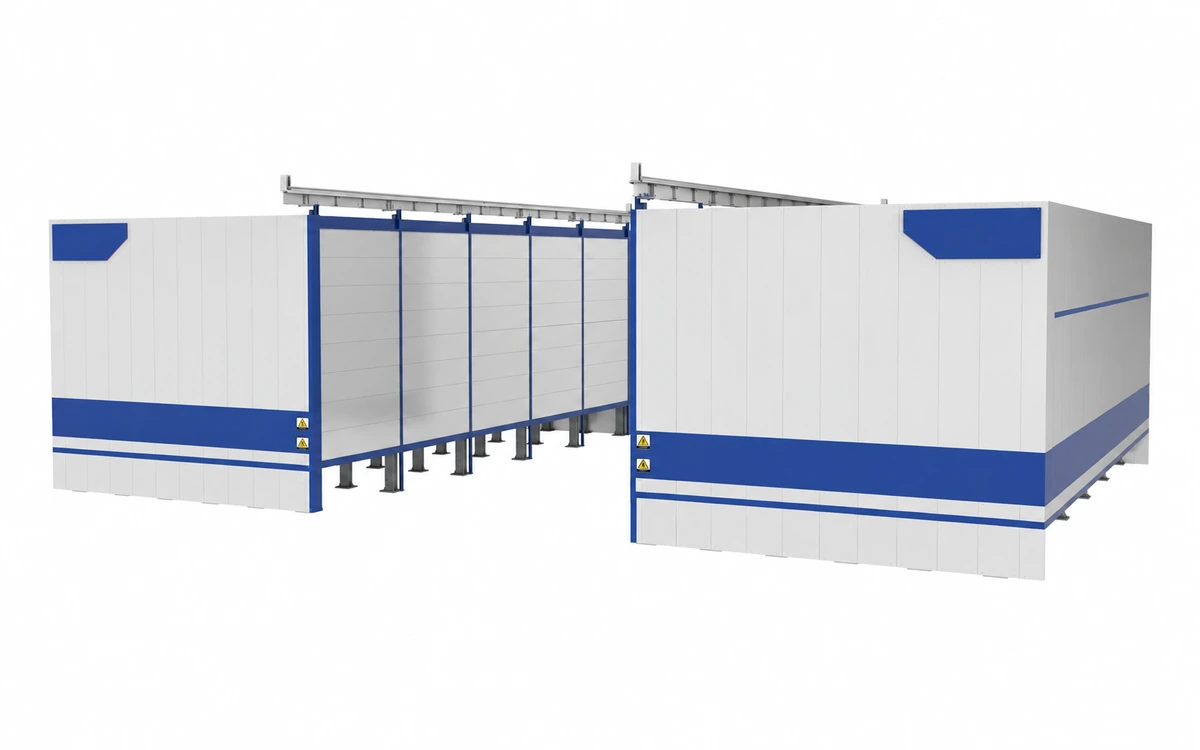
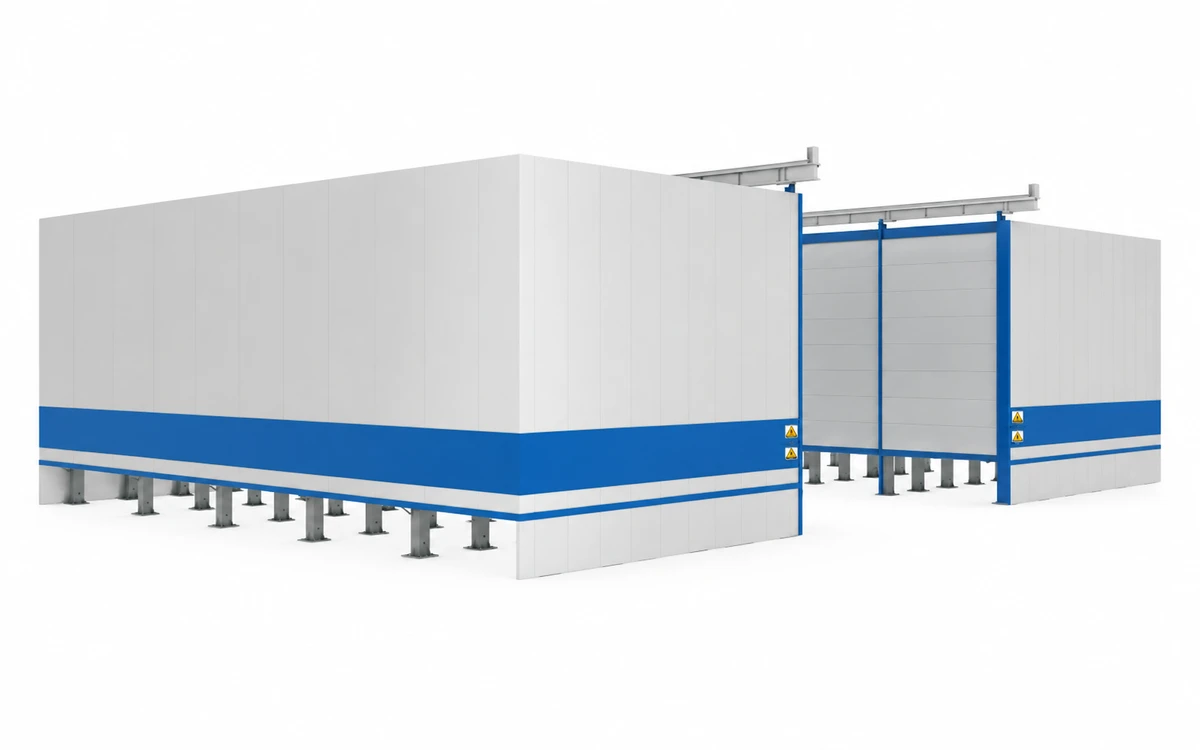
Refresh twelve precast equipment items and remove digital factory content

Changed region(s): [[0.0308, 0.184, 0.9867, 0.7973], [0.1233, 0.46, 0.1542, 0.4907]]

diff --git a/site/assets/building-precast.css b/site/assets/building-precast.css
@@ -11,7 +11,7 @@
 .pc-products{display:grid;grid-template-columns:repeat(4,1fr);gap:16px;margin-bottom:28px}.pc-products>div{display:flex;align-items:center;gap:18px;padding:18px;background:var(--pc-soft)}.pc-products svg{width:68px;height:62px;color:var(--pc-blue);flex-shrink:0}.pc-products span{font-size:14px;font-weight:600;line-height:1.4}
 .pc-lines-grid{display:grid;grid-template-columns:repeat(3,minmax(0,1fr));gap:24px}.pc-line-card{border:1px solid var(--pc-line);border-radius:6px;overflow:hidden;background:#fff;display:flex;flex-direction:column}.pc-line-image{position:relative;padding:16px;height:228px;background:#f7f9fa}.pc-line-image>img{width:100%;height:100%;object-fit:cover;border-radius:2px}.pc-line-image.pc-image-fit>img{object-fit:contain;background:#fff}.pc-line-image>span{position:absolute;left:28px;bottom:26px;display:flex;align-items:center;justify-content:center;width:32px;height:32px;background:var(--pc-navy);color:#fff;font-size:12px;border-radius:3px}.pc-line-body{padding:26px;display:flex;flex:1;flex-direction:column;align-items:stretch}.pc-line-body .pc-eyebrow{font-size:9px;letter-spacing:.1em;gap:8px}.pc-line-body .pc-eyebrow::before{width:14px}.pc-line-body h3{margin-top:14px;font-size:25px;line-height:1.15;letter-spacing:-.025em;color:var(--pc-navy)}.pc-line-body>p{margin-top:16px;color:var(--pc-muted);font-size:15px;line-height:1.6}.pc-line-body .pc-line-products{font-size:13px;color:var(--pc-ink);font-weight:600;min-height:42px}.pc-line-body dl{border-top:1px solid var(--pc-line);padding-top:20px;margin:22px 0}.pc-line-body dl>div+div{margin-top:18px}.pc-line-body dt{font-size:10px;letter-spacing:.08em;text-transform:uppercase;font-weight:700;color:var(--pc-blue)}.pc-line-body dd{margin-top:6px;color:var(--pc-muted);font-size:13px;line-height:1.6}.pc-line-body>.pc-button{margin-top:auto;font-size:12px;padding:14px 12px;gap:12px}
 .pc-process{display:grid;grid-template-columns:repeat(3,minmax(0,1fr));gap:1px;background:var(--pc-line);border:1px solid var(--pc-line)}.pc-process li{position:relative;background:var(--pc-soft);padding:30px 32px 34px}.pc-process h3{font-size:20px;line-height:1.25;letter-spacing:-.02em;color:var(--pc-navy)}.pc-process p{margin-top:14px;max-width:290px;color:var(--pc-muted);font-size:15px}.pc-step-arrow{position:absolute;right:26px;top:26px;color:#8ea4b4;font-size:24px}.pc-process-notes{display:grid;grid-template-columns:1fr 1fr;gap:48px;margin-top:28px;color:var(--pc-muted);font-size:14px}.pc-process-notes p{padding-left:18px;border-left:2px solid var(--pc-cyan)}.pc-process-notes strong{color:var(--pc-ink)}
-.pc-equipment-grid{display:grid;grid-template-columns:repeat(4,minmax(0,1fr));gap:24px}.pc-equipment-card{border-bottom:1px solid var(--pc-line);padding-bottom:24px}.pc-equipment-image{padding:16px 10px;height:184px;background:#f8fafb;margin-bottom:22px}.pc-equipment-image img{width:100%;height:100%;object-fit:contain;mix-blend-mode:multiply}.pc-equipment-image.pc-image-cover{padding:0}.pc-equipment-image.pc-image-cover img{object-fit:cover;mix-blend-mode:normal}.pc-equipment-card h3{font-size:20px;line-height:1.2;letter-spacing:-.025em;min-height:48px;color:var(--pc-navy)}.pc-equipment-card p{margin-top:12px;color:var(--pc-muted);font-size:14px;line-height:1.65}.pc-equipment-card .pc-parameters{margin-top:18px;font-size:12px;line-height:1.6;color:#5c7486;padding-top:14px;border-top:1px solid #e9eef1}.pc-single{margin-top:36px;display:flex;justify-content:space-between;align-items:center;gap:28px;padding:24px 28px;background:var(--pc-soft)}.pc-single strong{display:block;font-size:18px;color:var(--pc-navy)}.pc-single p>span{display:block;color:var(--pc-muted);font-size:14px;margin-top:4px}
+.pc-equipment-grid{display:grid;grid-template-columns:repeat(3,minmax(0,1fr));gap:28px}.pc-equipment-card{border-bottom:1px solid var(--pc-line);padding-bottom:24px}.pc-equipment-image{padding:16px 10px;height:184px;background:#f8fafb;margin-bottom:22px}.pc-equipment-image img{width:100%;height:100%;object-fit:contain;mix-blend-mode:multiply}.pc-equipment-image.pc-image-cover{padding:0}.pc-equipment-image.pc-image-cover img{object-fit:cover;mix-blend-mode:normal}.pc-equipment-card h3{font-size:20px;line-height:1.2;letter-spacing:-.025em;min-height:48px;color:var(--pc-navy)}.pc-equipment-card p{margin-top:12px;color:var(--pc-muted);font-size:14px;line-height:1.65}.pc-equipment-card .pc-parameters{margin-top:18px;font-size:12px;line-height:1.6;color:#5c7486;padding-top:14px;border-top:1px solid #e9eef1}.pc-single{margin-top:36px;display:flex;justify-content:space-between;align-items:center;gap:28px;padding:24px 28px;background:var(--pc-soft)}.pc-single strong{display:block;font-size:18px;color:var(--pc-navy)}.pc-single p>span{display:block;color:var(--pc-muted);font-size:14px;margin-top:4px}
 .pc-digital{background:var(--pc-navy);color:#fff}.pc-digital-grid{display:grid;grid-template-columns:1fr 1.05fr;gap:80px;align-items:center}.pc-digital .pc-eyebrow{color:var(--pc-cyan)}.pc-digital h2{color:#fff}.pc-digital-grid>div>p{margin-top:26px;color:#b9cad7;max-width:480px}.pc-digital .pc-button{margin-top:32px}.pc-integration{border:1px solid #ffffff26;border-radius:6px;padding:28px;background:#061b2c88}.pc-integration-top{display:flex;align-items:center;gap:10px;font-size:10px;font-weight:700;letter-spacing:.08em;color:#76d3db;margin-bottom:24px}.pc-integration-top small{margin-left:auto;color:#9fb5c7;font-size:9px;letter-spacing:0;font-weight:400}.pc-system{padding:20px;border:1px solid #ffffff1c;border-radius:4px;background:#0c304b}.pc-system>span{font-size:9px;letter-spacing:.12em;color:#7bc8d9}.pc-system h3{margin-top:6px;font-size:24px;line-height:1.2;font-weight:600}.pc-system p{margin-top:8px;color:#b9cad7;font-size:13px;line-height:1.5}.pc-system-row{display:grid;grid-template-columns:1fr 1fr;gap:14px}.pc-system-connector{display:block;text-align:center;color:var(--pc-cyan);line-height:1.6;font-size:22px}.pc-system-optional{background:#ffffff06;border-style:dashed}.pc-integration .pc-integration-note{margin-top:20px!important;font-size:11px;line-height:1.6;color:#a7becf}
 .pc-reference-grid{display:grid;grid-template-columns:repeat(3,minmax(0,1fr));gap:24px;margin-bottom:32px}.pc-reference-grid figure{background:#fff;border-radius:4px;overflow:hidden}.pc-reference-grid img{width:100%;height:250px;object-fit:cover}.pc-reference-grid figcaption{padding:26px}.pc-reference-grid h3{font-size:22px;line-height:1.2;color:var(--pc-navy)}.pc-reference-grid p{font-size:15px;color:var(--pc-muted);margin-top:14px}.pc-reference-grid small{display:block;margin-top:20px;padding-top:16px;border-top:1px solid var(--pc-line);font-size:11px;line-height:1.6;color:var(--pc-muted)}
 .pc-scope-grid{display:grid;grid-template-columns:1fr 1fr;gap:48px;align-items:stretch}.pc-deliverables{padding:40px;background:var(--pc-navy);color:#fff;border-radius:4px}.pc-deliverables .pc-eyebrow{color:var(--pc-cyan)}.pc-deliverables h3{font-size:32px;line-height:1.15;letter-spacing:-.025em;margin-top:20px}.pc-deliverables ol{margin-top:26px}.pc-deliverables li{display:flex;gap:18px;padding:15px 0;border-bottom:1px solid #ffffff1c;color:#c9d7e2;font-size:15px}.pc-responsibilities{display:flex;flex-direction:column;justify-content:center;gap:28px}.pc-responsibilities article{display:flex;gap:20px}.pc-responsibilities h3{font-size:20px;line-height:1.25;color:var(--pc-navy)}.pc-responsibilities p{margin-top:10px;font-size:15px;color:var(--pc-muted)}.pc-delivery-stages{display:grid;grid-template-columns:repeat(6,1fr);gap:24px;margin-top:40px!important}.pc-delivery-stages li{border-top:2px solid var(--pc-line);padding-top:18px}.pc-delivery-stages span{display:block;color:var(--pc-blue);font-size:22px}.pc-delivery-stages strong{display:block;margin-top:12px;font-size:13px;font-weight:600;line-height:1.5;max-width:150px}
@@ -53,3 +53,5 @@
 .pc-email-panel{position:fixed;left:50%;top:50%;right:auto;bottom:auto;transform:translate(-50%,-50%);z-index:180;width:50%;max-width:calc(100vw - 32px);padding:36px 36px 28px;background:var(--pc-deep);border:1px solid #ffffff26;border-top:4px solid var(--pc-cyan);border-radius:8px;color:#fff;box-shadow:0 20px 64px #061b2c66;overflow-y:auto;overscroll-behavior:contain}.pc-email-close{position:absolute;right:8px;top:6px;display:flex;align-items:center;justify-content:center;width:44px;height:44px;border:0;background:transparent;color:#c7d6e2;font-size:28px;cursor:pointer}.pc-email-panel .pc-eyebrow{padding-right:28px;font-size:10px;color:var(--pc-cyan)}.pc-email-panel h2{margin:14px 24px 10px 0;font-size:30px;line-height:1.15;letter-spacing:-.03em;color:#fff}.pc-email-panel>p{font-size:15px;line-height:1.6;color:#c7d6e2}.pc-email-panel fieldset{border:0;margin:20px 0 0;padding:0;display:flex;flex-direction:column;gap:12px;min-width:0}.pc-email-panel label{display:flex;flex-direction:column;gap:6px;font-size:13px;font-weight:600}.pc-email-panel input[type=email]{display:block;width:100%;min-width:0;min-height:48px;padding:12px;border:1px solid #ced9e1;border-radius:4px;background:#fff;color:var(--pc-ink);font-size:16px;line-height:1.4}.pc-email-panel input[aria-invalid=true]{border-color:#ffb4a8}.pc-email-panel .pc-field-error{color:#ffb4a8}.pc-email-panel .pc-button{width:100%;min-height:52px;gap:10px;padding:12px;font-size:13px}.pc-email-panel .pc-privacy-notice{font-size:11px;line-height:1.5;color:#c7d6e2}.pc-email-panel .pc-privacy-notice a{color:#94e0e6}.pc-email-success{margin-top:20px;padding:16px;background:#ffffff0d;border:1px solid #ffffff26;border-radius:4px}.pc-email-success strong{color:#fff;font-size:18px}.pc-email-success p{margin-top:8px;font-size:14px;color:#c7d6e2}.pc-email-open .pc-mobile-actions{visibility:hidden;pointer-events:none;transform:translateY(120%)}
 @media(max-width:850px){.pc-email-panel{width:calc(100% - 48px);max-width:560px}}
 @media(max-width:600px){.pc-email-panel{right:auto;left:50%;width:calc(100% - 28px);padding:24px 20px 20px}.pc-email-panel h2{font-size:24px}.pc-email-panel fieldset{margin-top:16px;gap:10px}.pc-email-open .analytics-consent-panel{bottom:12px}}
+
+@media(max-width:600px){.pc-equipment-grid{grid-template-columns:1fr;gap:28px}.pc-equipment-card h3{min-height:0;font-size:22px}.pc-equipment-image{margin-bottom:18px}}

diff --git a/docs/building-precast-plant.md b/docs/building-precast-plant.md
@@ -99,3 +99,11 @@ Validate the scroll offer with `node scripts/test-precast-scroll-email.mjs`; tes
 ## Case privacy and side navigation (2026-10-14)
 
 The case section explains that customer and company names are omitted to protect privacy; verified geographic labels remain. Previous/next buttons flank the carousel on desktop and sit at the image edges on mobile; the footer retains the pause/play control, range counter and enquiry CTA. The canonical landing-page URL is now listed in the sitemap.
+
+## Equipment catalogue refresh (2026-10-14)
+
+Replaced the equipment list with all 12 items requested by the user, in screenshot order. Source: PC product manual PDF, file pages 7–10 (printed pages 10–17). Feature copy translates the supplied screenshots; titles use generic industry terminology. Specifications use legible, unambiguous source figures; uncertain dimension strings in the original catalogue are omitted rather than reproduced. All equipment frames remain 1200 × 750, white-backed and contain-fit; the retractable cover retains its source factory photograph. Existing cleaned stacker and concrete-bucket images are reused after visual comparison. The former vibration and tilting image mappings were incorrect and are replaced with the correct screenshot subjects. New images are edited with the built-in image tool to remove brands and preserve geometry.
+
+Removed the digital-factory section, navigation link, digital support claim and software FAQ. Sitemap entry remains present. Common English transfer terminology checked against Elematic's official wall and half-slab brochures; all feature and specification claims come from the supplied manual, not other manufacturers.
+
+Image prompt set: precise-object-edit; erase company names/logos with matching underlying materials; preserve machinery, perspective, colors, equipment numbers and safety markings; centered complete render on white 8:5 canvas, retain the curing-cover photograph. New assets: pallet-transfer, tensioning, reinforcement-film, surface-roughening, pallet-ferry and retractable-curing under public/images/building-precast/.
